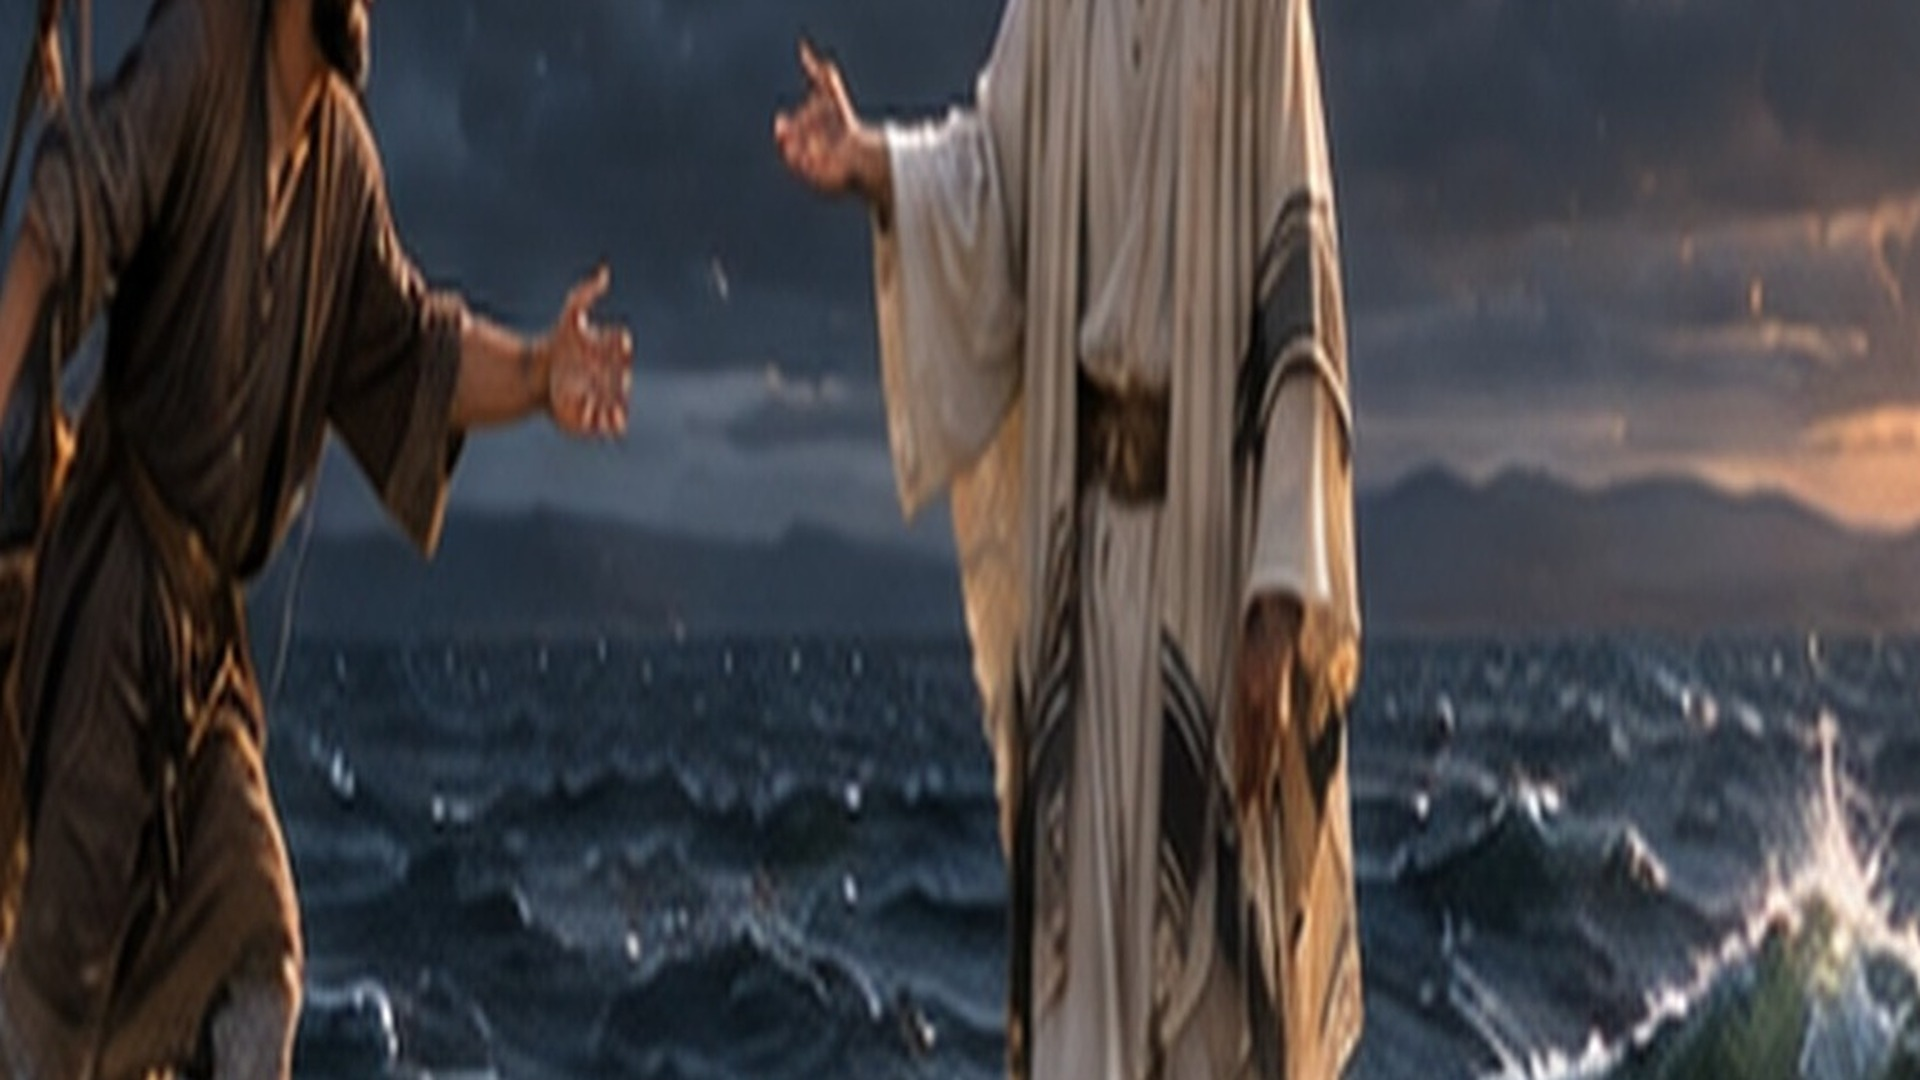
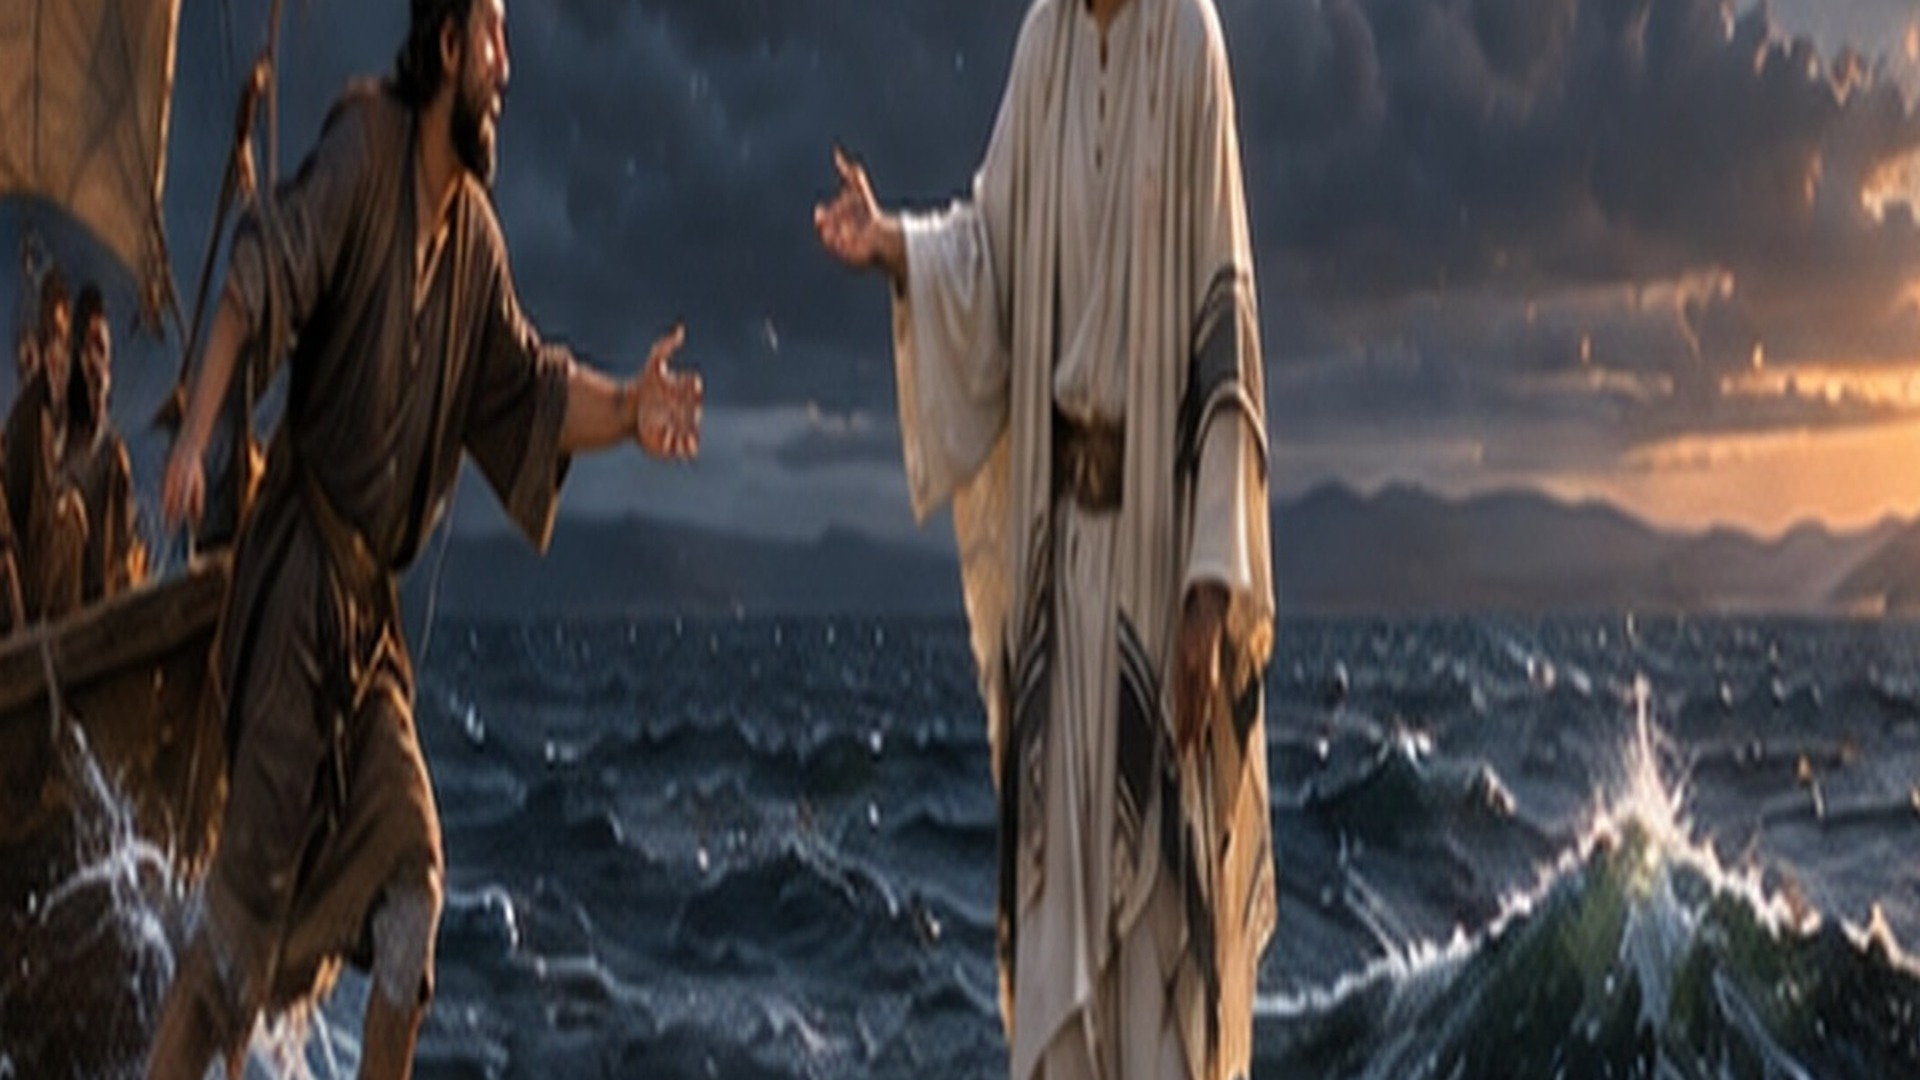
Loosen all close camera frames to 70% of the picture
Claude-Session: https://claude.ai/code/session_01BF3wGyJKPPbPDp5JMmzx9x

diff --git a/jesus-savior-redeemer-friend/CAMERA-PLAN.md b/jesus-savior-redeemer-friend/CAMERA-PLAN.md
@@ -4,7 +4,7 @@ Ed's stills are wide on purpose so the camera can travel across them. Each clip 
 
 General rules (same as God Is About to Show Up): the camera is never still and moves in depth. Pans travel right to left, and the next pan continues right to left so cuts don't jar. Moves alternate between pushing in and pulling back. Glow and light grow from nothing. Every move eases in and out. Color stays gold; the two storm scenes start cold and are warmed toward gold as the calm comes. Some of Yeshua's face is shown, not too much.
 
-Frames: `stills/NN_*.jpg` is the full wide picture. `stills/keys/NN-start.jpg` / `NN-end.jpg` are the closer frames cut from it (in the full picture they are the green and red boxes in the preview).
+Frames: `stills/NN_*.jpg` is the full wide picture. `stills/keys/NN-start.jpg` / `NN-end.jpg` are the closer frames cut from it (each 70% of the picture, so they stay sharp) (in the full picture they are the green and red boxes in the preview).
 
 | Scene | Lyric | Camera move | First frame → Last frame |
 | --- | --- | --- | --- |
